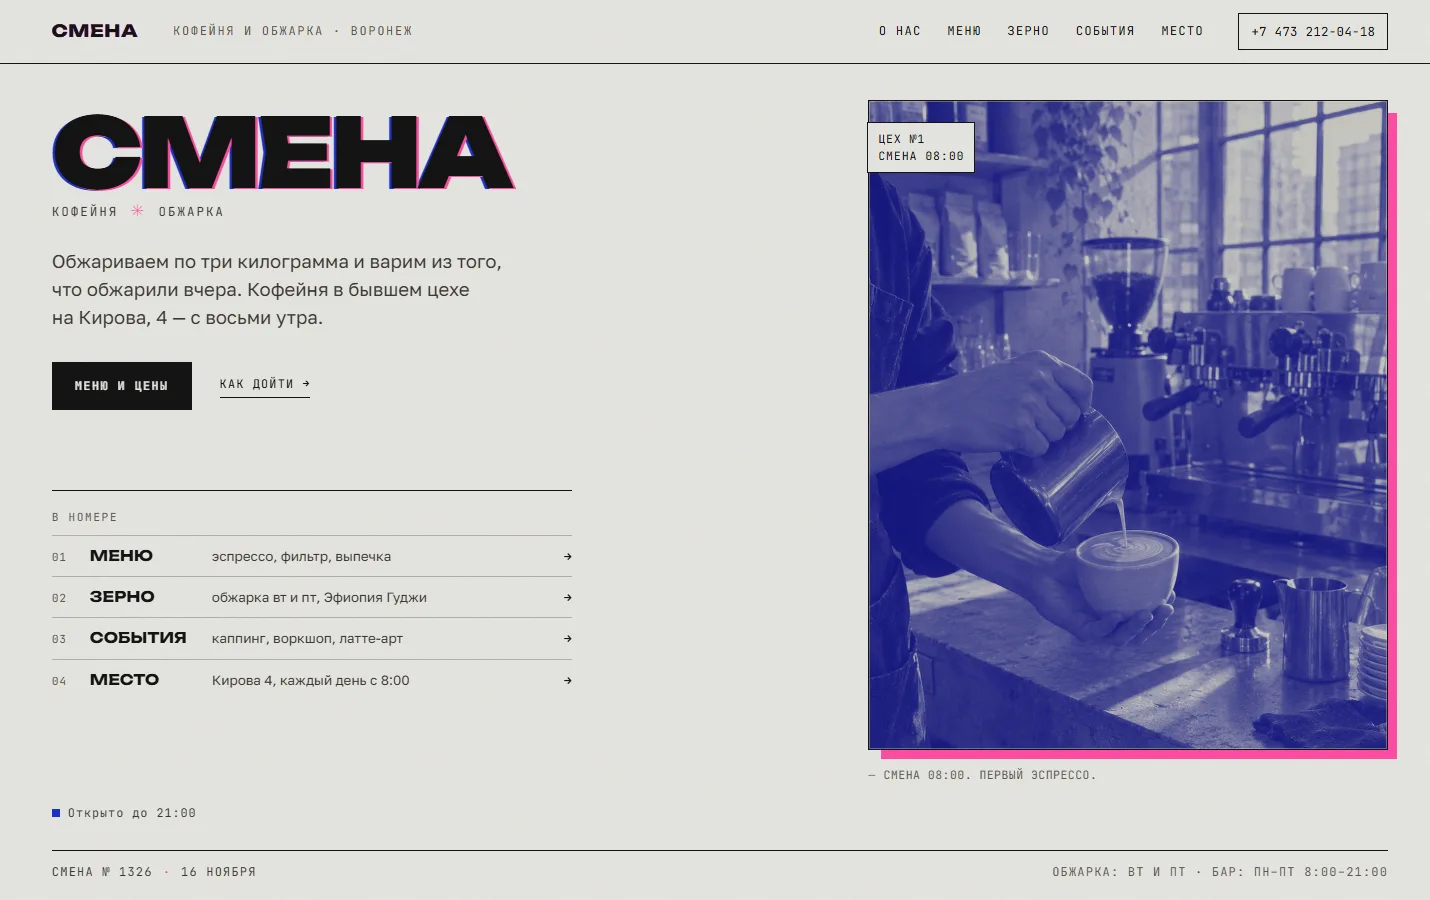
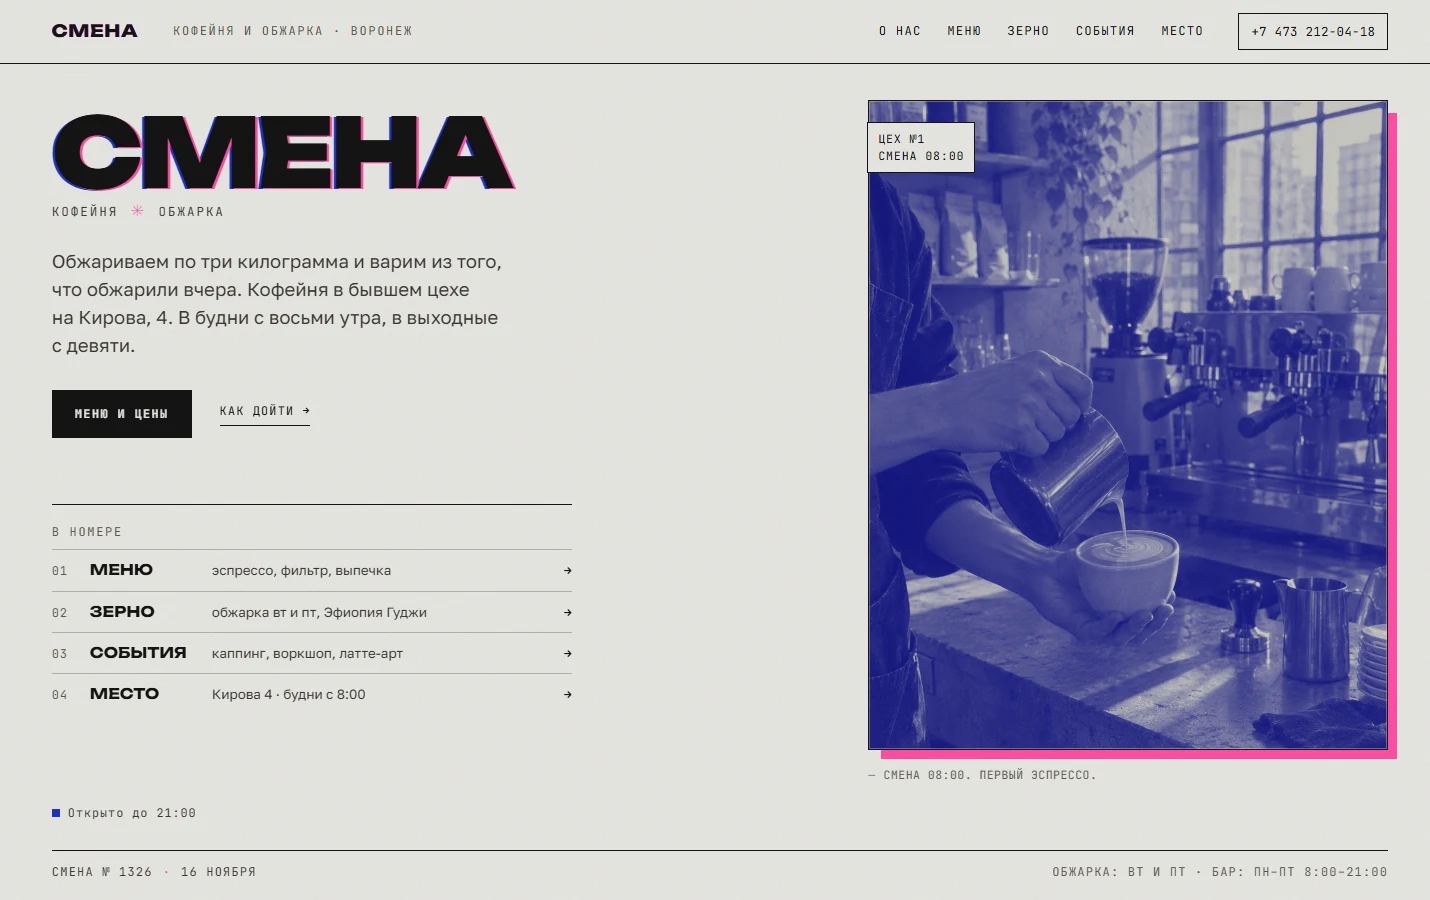
Очеловечивает тексты портфолио и «Смены»

Changed region(s): [[0.0308, 0.56, 0.3077, 0.7778], [0.0308, 0.3733, 0.2154, 0.4978], [0.1231, 0.3422, 0.3385, 0.3733]]

diff --git a/index.html b/index.html
@@ -94,7 +94,7 @@
     <div class="wrap">
       <div class="case-head">
         <h2 id="work-title" class="fade">Цветы, которые<br>можно потрогать</h2>
-        <p class="lead fade">«Люблю, целую» — цветочный салон. Это демонстрационный макет, а не запущенный сайт клиента: я собрал его как образец подхода. Слева страница, какой она была. Справа — та же витрина, но выбор и заказ в два шага.</p>
+        <p class="lead fade">«Люблю, целую» — цветочный салон. Я собрал этот макет как образец работы. Клиента у него нет. Слева старая страница, справа новая: выбор букета, размер, бюджет и заказ в два шага.</p>
       </div>
 
       <div class="compare glass-frame" style="--split: 52%">
@@ -115,15 +115,15 @@
           <ul class="ticks">
             <li>Пересобрал структуру под выбор букета: повод, размер, бюджет вместо простыни текста.</li>
             <li>Сделал витрину с ценами S / M / XL и заказ в мессенджере с уже заполненным текстом.</li>
-            <li>Проверил мобильную версию, клавиатуру и работу без JavaScript: страница остаётся читаемой.</li>
+            <li>Проверил на телефоне и с клавиатуры. Без JavaScript страница тоже читается.</li>
           </ul>
           <a class="btn btn--glass btn--ember" href="https://yuriimasl.github.io/lyublyu-demo/" target="_blank" rel="noopener">Открыть демо-макет<span class="arr" aria-hidden="true">↗</span></a>
-          <p class="note">Макет демонстрационный: я не выдаю его за сайт клиента и не приписываю ему чужих результатов.</p>
+          <p class="note">Результатов у макета нет.</p>
         </div>
         <div class="case-truth fade">
           <h3>Что здесь честно</h3>
-          <p>В портфолио два демо-макета: цветочный салон и кофейня. Не запущенные клиентские сайты, а макеты, которые можно открыть и потрогать: посмотреть витрину, пройти путь до заказа, проверить вёрстку на телефоне.</p>
-          <p>Поэтому на странице нет отзывов, логотипов клиентов и цифр конверсии. Когда появятся, они будут здесь, с именами и ссылками.</p>
+          <p>В портфолио два демо-макета: цветочный салон и кофейня. Первый проходит путь до заказа, во втором можно полистать меню и фильтры. Оба открываются с телефона.</p>
+          <p>Отзывов, логотипов и цифр конверсии здесь нет: их пока не существует. Появятся — будут с именами и ссылками.</p>
         </div>
       </div>
     </div>
@@ -133,7 +133,7 @@
     <div class="wrap">
       <div class="case-head">
         <h2 id="smena-title" class="fade">Кофе, который<br>можно потрогать</h2>
-        <p class="lead fade">«Смена» — кофейня и обжарка в бывшем цехе на Кирова, 4. Это второй демонстрационный макет, а не запущенный сайт клиента: бумажная основа, кобальт и флуоресцентный розовый, крупная типографика; шрифты и фотографии локальные. Слева телефон, справа — та же страница на десктопе.</p>
+        <p class="lead fade">«Смена» — кофейня и обжарка в бывшем цехе на Кирова, 4. Второй демо-макет. Клиента у него нет. Бумага, кобальт и флуоресцентный розовый, крупная типографика; шрифты и фотографии лежат в проекте. Слева телефон, справа та же страница на десктопе.</p>
       </div>
 
       <div class="case-board glass-frame">
@@ -150,17 +150,17 @@
         <div class="case-what fade">
           <h3>Что именно сделано</h3>
           <ul class="ticks">
-            <li>Собрал меню с фильтрами «кофе / не кофе / еда», живым счётчиком позиций и ценами, которые не разъезжаются.</li>
-            <li>Сделал живой статус «открыто до…», номер смены и мобильное меню, которое работает с клавиатуры.</li>
-            <li>Придумал визуальный язык: бумага, кобальт, флуоресцентный розовый, дуотон-фото; шрифты и фотографии лежат локально.</li>
+            <li>Собрал меню с фильтрами «кофе / не кофе / еда»: счётчик позиций и цены, которые не разъезжаются.</li>
+            <li>Сделал статус «открыто до…», номер смены и мобильное меню, которое работает с клавиатуры.</li>
+            <li>Собрал всё на бумаге, кобальте и флуоресцентном розовом. Фотографии в дуотоне, шрифты лежат в проекте.</li>
           </ul>
           <a class="btn btn--glass btn--ember" href="cases/smena/" target="_blank" rel="noopener">Открыть демо-макет<span class="arr" aria-hidden="true">↗</span></a>
-          <p class="note">Демо-макет: бренд, цены, события и контакты вымышлены. Фотографии сгенерированы и помечены в исходниках.</p>
+          <p class="note">Бренд, цены, события и контакты придуманы. Фотографии сгенерированы.</p>
         </div>
         <div class="case-truth fade">
           <h3>Что здесь честно</h3>
-          <p>Это второй демо-макет, а не сайт клиента. «Смена» — выдуманная кофейня; меню, часы и события — иллюстрация подхода, а не реальные данные.</p>
-          <p>Сайт открывается отдельной страницей: можно полистать меню, переключить фильтры, проверить мобильную версию и клавиатуру.</p>
+          <p>«Смена» выдумана: меню, часы и события придуманы для примера. Клиента и реальных данных у кейса нет.</p>
+          <p>Внутри можно полистать меню, переключить фильтры, посмотреть с телефона.</p>
         </div>
       </div>
     </div>
@@ -225,8 +225,8 @@
       </figure>
       <div class="about-copy">
         <h2 id="about-title" class="fade">Меня зовут Юрий.<br>Работаю один: от заготовки до отжига.</h2>
-        <p class="fade">Без агентства и менеджеров: вы говорите напрямую со мной, и я же собираю страницу. Мне интересны небольшие дела — цветочный салон, кофейня, мастерская, где сайт нужен не для галочки, а чтобы человек выбрал и написал.</p>
-        <p class="fade">В портфолио два демо-макета, и это честная стадия: я не подписываю чужие работы своим именем. Следующим в портфолио станет ваш сайт.</p>
+        <p class="fade">Работаю без агентства и менеджеров. Вы говорите со мной, и я собираю страницу. Люблю небольшие дела — цветочный салон, кофейня, мастерская, где сайт нужен, чтобы человек выбрал и написал.</p>
+        <p class="fade">В портфолио два демо-макета. Чужие работы своим именем не подписываю. Следующим станет ваш сайт.</p>
       </div>
     </div>
   </section>

diff --git a/cases/smena/index.html b/cases/smena/index.html
@@ -84,7 +84,7 @@
       <div class="cover__lead">
         <h1 class="wordmark" id="cover-title">Смена</h1>
         <p class="cover__kicker"><span>кофейня</span><i aria-hidden="true">✳</i><span>обжарка</span></p>
-        <p class="cover__hook">Обжариваем по три килограмма и варим из того, что обжарили вчера. Кофейня в бывшем цехе на&nbsp;Кирова,&nbsp;4 — с восьми утра.</p>
+        <p class="cover__hook">Обжариваем по три килограмма и варим из того, что обжарили вчера. Кофейня в бывшем цехе на&nbsp;Кирова,&nbsp;4. В будни с восьми утра, в выходные с девяти.</p>
         <div class="cover__actions">
           <a class="btn btn--ink" href="#menu">Меню и цены</a>
           <a class="link-arrow" href="https://yandex.ru/maps/?text=%D0%92%D0%BE%D1%80%D0%BE%D0%BD%D0%B5%D0%B6%2C%20%D1%83%D0%BB%D0%B8%D1%86%D0%B0%20%D0%9A%D0%B8%D1%80%D0%BE%D0%B2%D0%B0%2C%204" target="_blank" rel="noopener">Как дойти</a>
@@ -113,11 +113,11 @@
           <a href="#place">
             <span class="cover__index-num">04</span>
             <span class="cover__index-name">Место</span>
-            <span class="cover__index-note">Кирова 4, каждый день с 8:00</span>
+            <span class="cover__index-note">Кирова 4 · будни с 8:00</span>
             <span class="cover__index-arrow" aria-hidden="true">→</span>
           </a>
         </nav>
-        <p class="cover__now" data-status>Открыто до 21:00</p>
+        <p class="cover__now" data-status>Пн–Пт 8:00–21:00 · Сб–Вс 9:00–22:00</p>
       </div>
 
       <figure class="plate plate--cover">
@@ -140,13 +140,13 @@
     <p class="margin-num" aria-hidden="true">02</p>
     <div class="craft__head">
       <h2 class="h2" id="craft-title" data-reveal>Кофейня<br>в цехе</h2>
-      <p class="lead" data-reveal>Бывший цех на Кирова, 4: бетон, высокие окна и ростер у стены. Обжариваем малыми партиями, варим без спешки и наливаем всем, кто зашёл до девяти.</p>
+      <p class="lead" data-reveal>Бывший цех на Кирова, 4: бетон, высокие окна, ростер у стены. Обжариваем малыми партиями, варим без спешки. Наливаем всем, кто зашёл до закрытия.</p>
     </div>
 
     <div class="craft__cols">
       <article class="craft__col" data-reveal>
         <h3>Бар</h3>
-        <p>Эспрессо, фильтр и молоко. Три лота в ротации и постоянный бленд для эспрессо. Фильтр меняем, когда кончается мешок. Не по расписанию.</p>
+        <p>Эспрессо, фильтр и молоко. Три лота в ротации и постоянный бленд для эспрессо. Фильтр меняем, когда кончается мешок.</p>
         <p class="mono-note">Эспрессо · фильтр · молоко</p>
       </article>
       <article class="craft__col" data-reveal>
@@ -311,7 +311,7 @@
     </ul>
 
     <div class="menu__foot">
-      <p class="mono-note">Позиции и цены демонстрационные. В реальном меню сезонные лоты меняются каждый месяц.</p>
+      <p class="mono-note">Цены и позиции — для примера. Сезонные лоты меняются каждый месяц.</p>
     </div>
   </section>
 
@@ -396,7 +396,7 @@
 
     <div class="events__foot">
       <a class="btn btn--ink" href="https://t.me/smena_vrn" target="_blank" rel="noopener">Записаться в Telegram</a>
-      <p class="events__fine">События: часть концепта. Даты и цены иллюстративные.</p>
+      <p class="events__fine">События придуманы: даты и цены — для примера.</p>
     </div>
   </section>
 
@@ -416,7 +416,7 @@
             <tr><th scope="row">Сб–Вс</th><td>9:00–22:00</td></tr>
           </tbody>
         </table>
-        <p class="place__now" data-status>Открыто до 21:00</p>
+        <p class="place__now" data-status>Пн–Пт 8:00–21:00 · Сб–Вс 9:00–22:00</p>
 
         <div class="place__contacts">
           <a class="big-link" href="tel:+74732120418">+7 473 212-04-18</a>
@@ -452,15 +452,15 @@
   </div>
   <div class="colophon__bottom">
     <p>Кофейня и обжарка · Воронеж, Кирова 4 · <a href="tel:+74732120418">+7 473 212-04-18</a></p>
-    <p><span data-shift>Смена № 1</span> · обжарка вт и пт · бар с 8:00</p>
-    <p class="colophon__concept">Концепт-проект для портфолио, 2026. Бренд вымышлен, цены и события — иллюстрация.</p>
+    <p><span data-shift>Смена № 1</span> · обжарка вт и пт · бар в будни с 8:00</p>
+    <p class="colophon__concept">Демо-макет для портфолио, 2026. Бренда не существует, цены и события придуманы.</p>
   </div>
   <div class="colorbar" aria-hidden="true">
     <span class="colorbar__chip" style="background:#FF4FA3"></span>
     <span class="colorbar__chip" style="background:#1E33C9"></span>
     <span class="colorbar__chip" style="background:#141414"></span>
     <span class="colorbar__chip" style="background:#E8E3D7;border-color:#141414"></span>
-    <span class="colorbar__text">Палитра: розовый · кобальт · бумага</span>
+    <span class="colorbar__text">Розовый · кобальт · бумага</span>
   </div>
 </footer>
 

diff --git a/tools/check_portfolio.py b/tools/check_portfolio.py
@@ -112,7 +112,7 @@ class PortfolioChecks(unittest.TestCase):
         self.assertIn('два демо-макета', HTML)
         self.assertIn('Цветы, которые', HTML)
         self.assertIn('Кофе, который', HTML)
-        self.assertIn('Демо-макет: бренд, цены, события и контакты вымышлены', HTML)
+        self.assertIn('Бренд, цены, события и контакты придуманы', HTML)
 
     def test_smena_case_files_exist(self):
         case = ROOT / 'cases' / 'smena'
